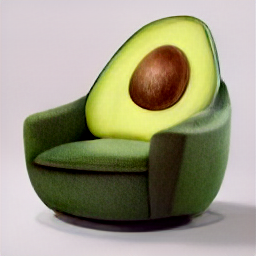
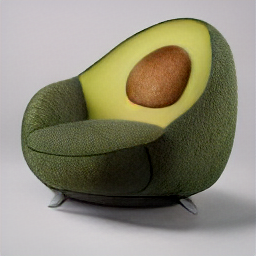
updated readme with torch examples

diff --git a/README.md b/README.md
@@ -2,7 +2,7 @@
 
 [![Open In Colab](https://colab.research.google.com/assets/colab-badge.svg)](https://colab.research.google.com/github/kuprel/min-dalle/blob/main/min_dalle.ipynb)
 
-This is a minimal implementation of [DALL·E Mini](https://github.com/borisdayma/dalle-mini).  It has been stripped to the bare essentials necessary for doing inference, and converted to PyTorch.  The only third party dependencies are `numpy`, `torch`, and `flax`.
+This is a minimal implementation of [DALL·E Mini](https://github.com/borisdayma/dalle-mini).  It has been stripped to the bare essentials necessary for doing inference, and converted to PyTorch.  The only third party dependencies are `numpy`, `torch`, and `flax`.  PyTorch inference with DALL·E Mega takes about 10 seconds in colab.
 
 ### Setup
 
@@ -16,13 +16,13 @@ Run `sh setup.sh` to install dependencies and download pretrained models.  The `
 The simplest way to get started is the command line python script `image_from_text.py` provided.  Here are some examples runs:
 
 ```
-python image_from_text.py --text='alien life' --seed=7
+python3 image_from_text.py --text='artificial intelligence' --torch
 ```
-![Alien](examples/alien.png)
+![Alien](examples/artificial_intelligence.png)
 
 
 ```
-python image_from_text.py --text='a comfy chair that looks like an avocado' --mega --seed=4
+python image_from_text.py --text='a comfy chair that looks like an avocado' --torch --mega --seed=10
 ```
 ![Avocado Armchair](examples/avocado_armchair.png)
 
